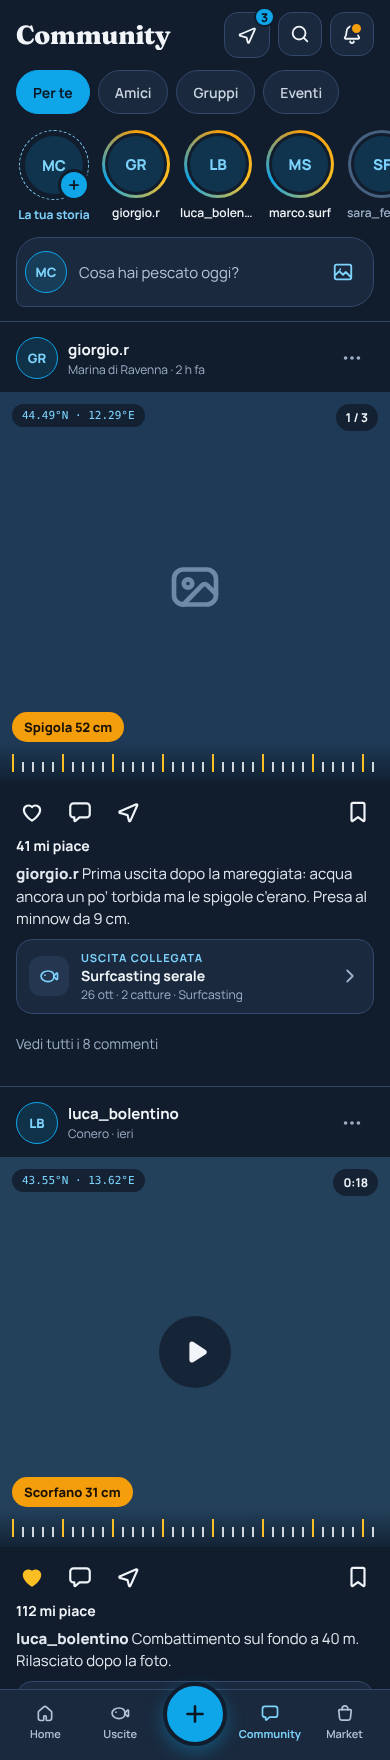
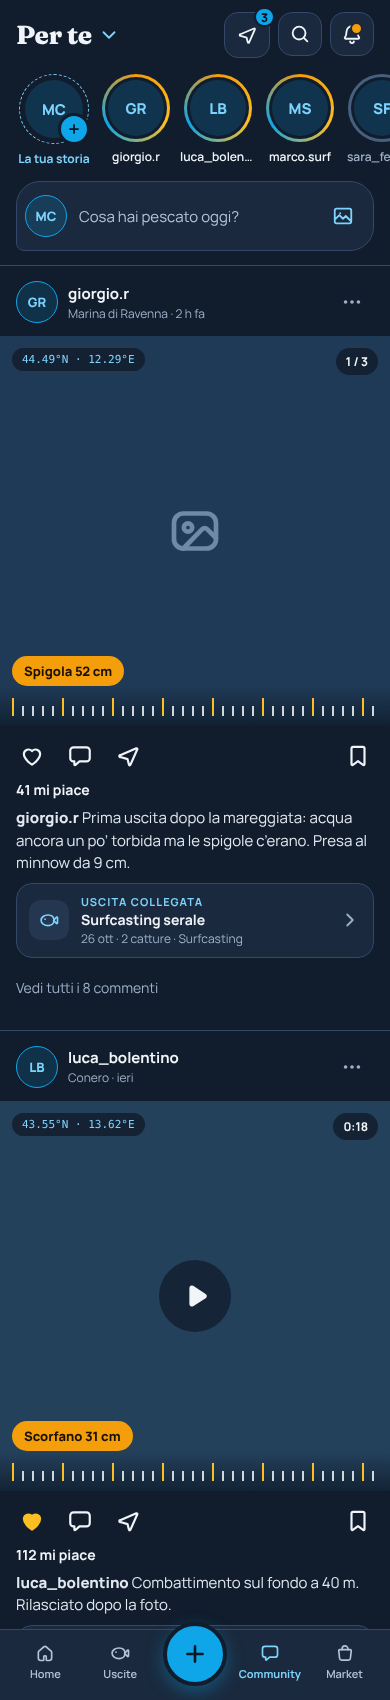
docs: filtro del feed compatto nel handoff
Claude-Session: https://claude.ai/code/session_016Rp5NVDVs6S4RHCGxMBAVP

diff --git a/design-handoff/design/Community.dc.html b/design-handoff/design/Community.dc.html
@@ -19,10 +19,15 @@ a{color:inherit;text-decoration:none}
 h1,.disp{font-family:'Fraunces',Georgia,serif;font-optical-sizing:auto}
 </style>
 </helmet>
-<div style="width:390px;height:1760px;box-sizing:border-box;background:#111c2c;display:flex;flex-direction:column;overflow:hidden">
+<div style="width:390px;height:1700px;box-sizing:border-box;background:#111c2c;display:flex;flex-direction:column;overflow:hidden">
 
-  <header style="display:flex;align-items:center;gap:10px;padding:12px 16px;min-height:64px;box-sizing:border-box">
-    <h1 style="margin:0;font-size:26px;font-weight:800;letter-spacing:-.01em;font-family:'Fraunces',Georgia,serif">Community</h1>
+  <header style="position:relative;z-index:5;display:flex;align-items:center;gap:10px;padding:12px 16px;min-height:64px;box-sizing:border-box">
+    <h1 style="margin:0;font-size:26px;font-weight:800;letter-spacing:-.01em;font-family:'Fraunces',Georgia,serif"><button onClick="{{toggleFilter}}" aria-haspopup="listbox" aria-expanded="{{filterOpen}}" aria-label="Filtra il feed: {{filterLabel}}" style="min-height:44px;padding:0 6px 0 0;border:0;background:transparent;color:inherit;font:inherit;letter-spacing:inherit;display:flex;align-items:center;gap:6px">{{filterLabel}}<svg class="i" viewBox="0 0 24 24" style="width:22px;height:22px;color:#7dd3fc" aria-hidden="true"><path d="m6 9 6 6 6-6"/></svg></button></h1>
+    <sc-if value="{{filterOpen}}" hint-placeholder-val="{{ false }}">
+    <div role="listbox" aria-label="Filtra il feed" style="position:absolute;left:16px;top:62px;width:220px;background:#243650;border:1px solid #46617f;border-radius:20px;padding:6px;box-shadow:0 12px 32px rgba(0,0,0,.5)">
+      <sc-for list="{{filters}}" as="f" hint-placeholder-count="4"><button role="option" aria-selected="{{f.on}}" onClick="{{f.tap}}" style="width:100%;min-height:48px;border:0;border-radius:14px;background:{{f.bg}};color:{{f.fg}};font-size:16px;font-weight:700;display:flex;align-items:center;justify-content:space-between;padding:0 14px;text-align:left">{{f.label}}<sc-if value="{{f.on}}" hint-placeholder-val="{{ false }}"><svg class="i" viewBox="0 0 24 24" style="width:20px;height:20px" aria-hidden="true"><path d="m5 12 5 5 9-10"/></svg></sc-if></button></sc-for>
+    </div>
+    </sc-if>
     <div style="margin-left:auto;display:flex;gap:8px">
       <a href="ChatLista.dc.html" aria-label="Messaggi, 3 da leggere" style="position:relative;width:44px;height:44px;border-radius:14px;border:1px solid #33486a;background:#1a293d;color:#f1f5f9;display:flex;align-items:center;justify-content:center"><svg class="i" viewBox="0 0 24 24" aria-hidden="true"><path d="M4.8 11.2 19.7 4.9a.7.7 0 0 1 .9.9L14.2 20.2a.7.7 0 0 1-1.3-.1L11.6 14.9 5 13a.7.7 0 0 1-.2-1.8Z"/></svg><span style="position:absolute;top:-6px;right:-6px;min-width:20px;height:20px;padding:0 5px;box-sizing:border-box;border-radius:999px;background:#0ea5e9;color:#0b1623;font-size:12px;font-weight:800;display:flex;align-items:center;justify-content:center;border:2px solid #111c2c">3</span></a>
       <button aria-label="Cerca pescatori" style="width:44px;height:44px;border-radius:14px;border:1px solid #33486a;background:#1a293d;color:#f1f5f9;display:flex;align-items:center;justify-content:center"><svg class="i" viewBox="0 0 24 24" aria-hidden="true"><circle cx="11" cy="11" r="7"/><path d="m20 20-3.500-3.500"/></svg></button>
@@ -30,12 +35,6 @@ h1,.disp{font-family:'Fraunces',Georgia,serif;font-optical-sizing:auto}
     </div>
   </header>
 
-  <div class="chips" style="display:flex;gap:8px;overflow-x:auto;padding:0 16px 12px;scrollbar-width:none">
-    <button style="flex:none;min-height:44px;padding:0 16px;border-radius:22px;border:1px solid #0ea5e9;background:#0ea5e9;color:#0b1623;font-weight:700;font-size:14px">Per te</button>
-    <button style="flex:none;min-height:44px;padding:0 16px;border-radius:22px;border:1px solid #33486a;background:#1a293d;color:#cbd5e1;font-weight:600;font-size:14px">Amici</button>
-    <button style="flex:none;min-height:44px;padding:0 16px;border-radius:22px;border:1px solid #33486a;background:#1a293d;color:#cbd5e1;font-weight:600;font-size:14px">Gruppi</button>
-    <button style="flex:none;min-height:44px;padding:0 16px;border-radius:22px;border:1px solid #33486a;background:#1a293d;color:#cbd5e1;font-weight:600;font-size:14px">Eventi</button>
-  </div>
 
 
   <section aria-label="Storie" class="chips" style="display:flex;gap:6px;overflow-x:auto;padding:4px 16px 14px;scrollbar-width:none">
@@ -107,15 +106,20 @@ h1,.disp{font-family:'Fraunces',Georgia,serif;font-optical-sizing:auto}
   </nav>
 </div>
 </x-dc>
-<script type="text/x-dc" data-dc-script data-props='{"$preview":{"width":390,"height":1760}}'>
+<script type="text/x-dc" data-dc-script data-props='{"$preview":{"width":390,"height":1700}}'>
 class Component extends DCLogic {
-constructor(props) { super(props); this.state = { liked: { 0: false, 1: true } }; }
+constructor(props) { super(props); this.state = { liked: { 0: false, 1: true }, filterOpen: false, filter: 0 }; }
 renderVals() {
   const base = [
     { coords: '44.49°N · 12.29°E', initials: 'GR', author: 'giorgio.r', place: 'Marina di Ravenna', when: '2 h fa', tone: '#1f3a56', isVideo: false, isPhoto: true, counter: '1 / 3', badge: 'Spigola 52 cm', likes: 41, caption: 'Prima uscita dopo la mareggiata: acqua ancora un po’ torbida ma le spigole c’erano. Presa al minnow da 9 cm.', session: 'Surfcasting serale', sessionMeta: '26 ott · 2 catture · Surfcasting', comments: 8 },
     { coords: '43.55°N · 13.62°E', initials: 'LB', author: 'luca_bolentino', place: 'Conero', when: 'ieri', tone: '#24415c', isVideo: true, isPhoto: false, counter: '0:18', badge: 'Scorfano 31 cm', likes: 112, caption: 'Combattimento sul fondo a 40 m. Rilasciato dopo la foto.', session: 'Bolentino sul fondo', sessionMeta: '12 ott · 9 catture · Bolentino', comments: 23 }
   ];
-  return { posts: base.map((p, i) => {
+  const names = ['Per te', 'Amici', 'Gruppi', 'Eventi'];
+  const fs = this.state.filter;
+  return { filterLabel: names[fs], filterOpen: this.state.filterOpen,
+    toggleFilter: () => this.setState({ filterOpen: !this.state.filterOpen }),
+    filters: names.map((label, i) => ({ label, on: fs === i, bg: fs === i ? 'rgba(14,165,233,.18)' : 'transparent', fg: fs === i ? '#7dd3fc' : '#f1f5f9', tap: () => this.setState({ filter: i, filterOpen: false }) })),
+    posts: base.map((p, i) => {
     const liked = !!this.state.liked[i];
     const n = p.likes + (liked && i === 0 ? 1 : 0) - (!liked && i === 1 ? 1 : 0);
     return { ...p, liked, heartColor: liked ? '#fbbf24' : '#f1f5f9', heartFill: liked ? '#fbbf24' : 'none',

diff --git a/design-handoff/HANDOFF.md b/design-handoff/HANDOFF.md
@@ -111,7 +111,7 @@ Prima mancava il punto d'ingresso per un nuovo post. Ora:
 | # | Schermata | Codice | Note |
 |---|---|---|---|
 | 39 | Crea (foglio dal basso) | nuovo, apre da «+» della barra | Post, Storia, Uscita, Annuncio. Il «+» non porta più direttamente a `PostForm.vue` |
-| 05 | Community · feed | `FeedView.vue` | In alto: fila storie (`StoriesRail.vue`, nuovo) e riga «Cosa hai pescato oggi?» che apre il form del post |
+| 05 | Community · feed | `FeedView.vue` | Il filtro (Per te / Amici / Gruppi / Eventi) non è più una fila di chip: è il titolo della pagina con freccia («Per te ▾») che apre un menu. In alto: fila storie (`StoriesRail.vue`, nuovo) e riga «Cosa hai pescato oggi?» che apre il form del post |
 | 40 | Storia · crea | nuovo `StoryComposer.vue` | Foto/video, adesivi della pesca (cattura, luogo, acqua e meteo), pubblico Tutti / Solo amici, scade dopo 24 ore |
 | 41 | Storia · guarda | nuovo `StoryViewer.vue` | Barre di avanzamento, risposta in chat, cuore. L'adesivo cattura apre il dettaglio uscita |
 
